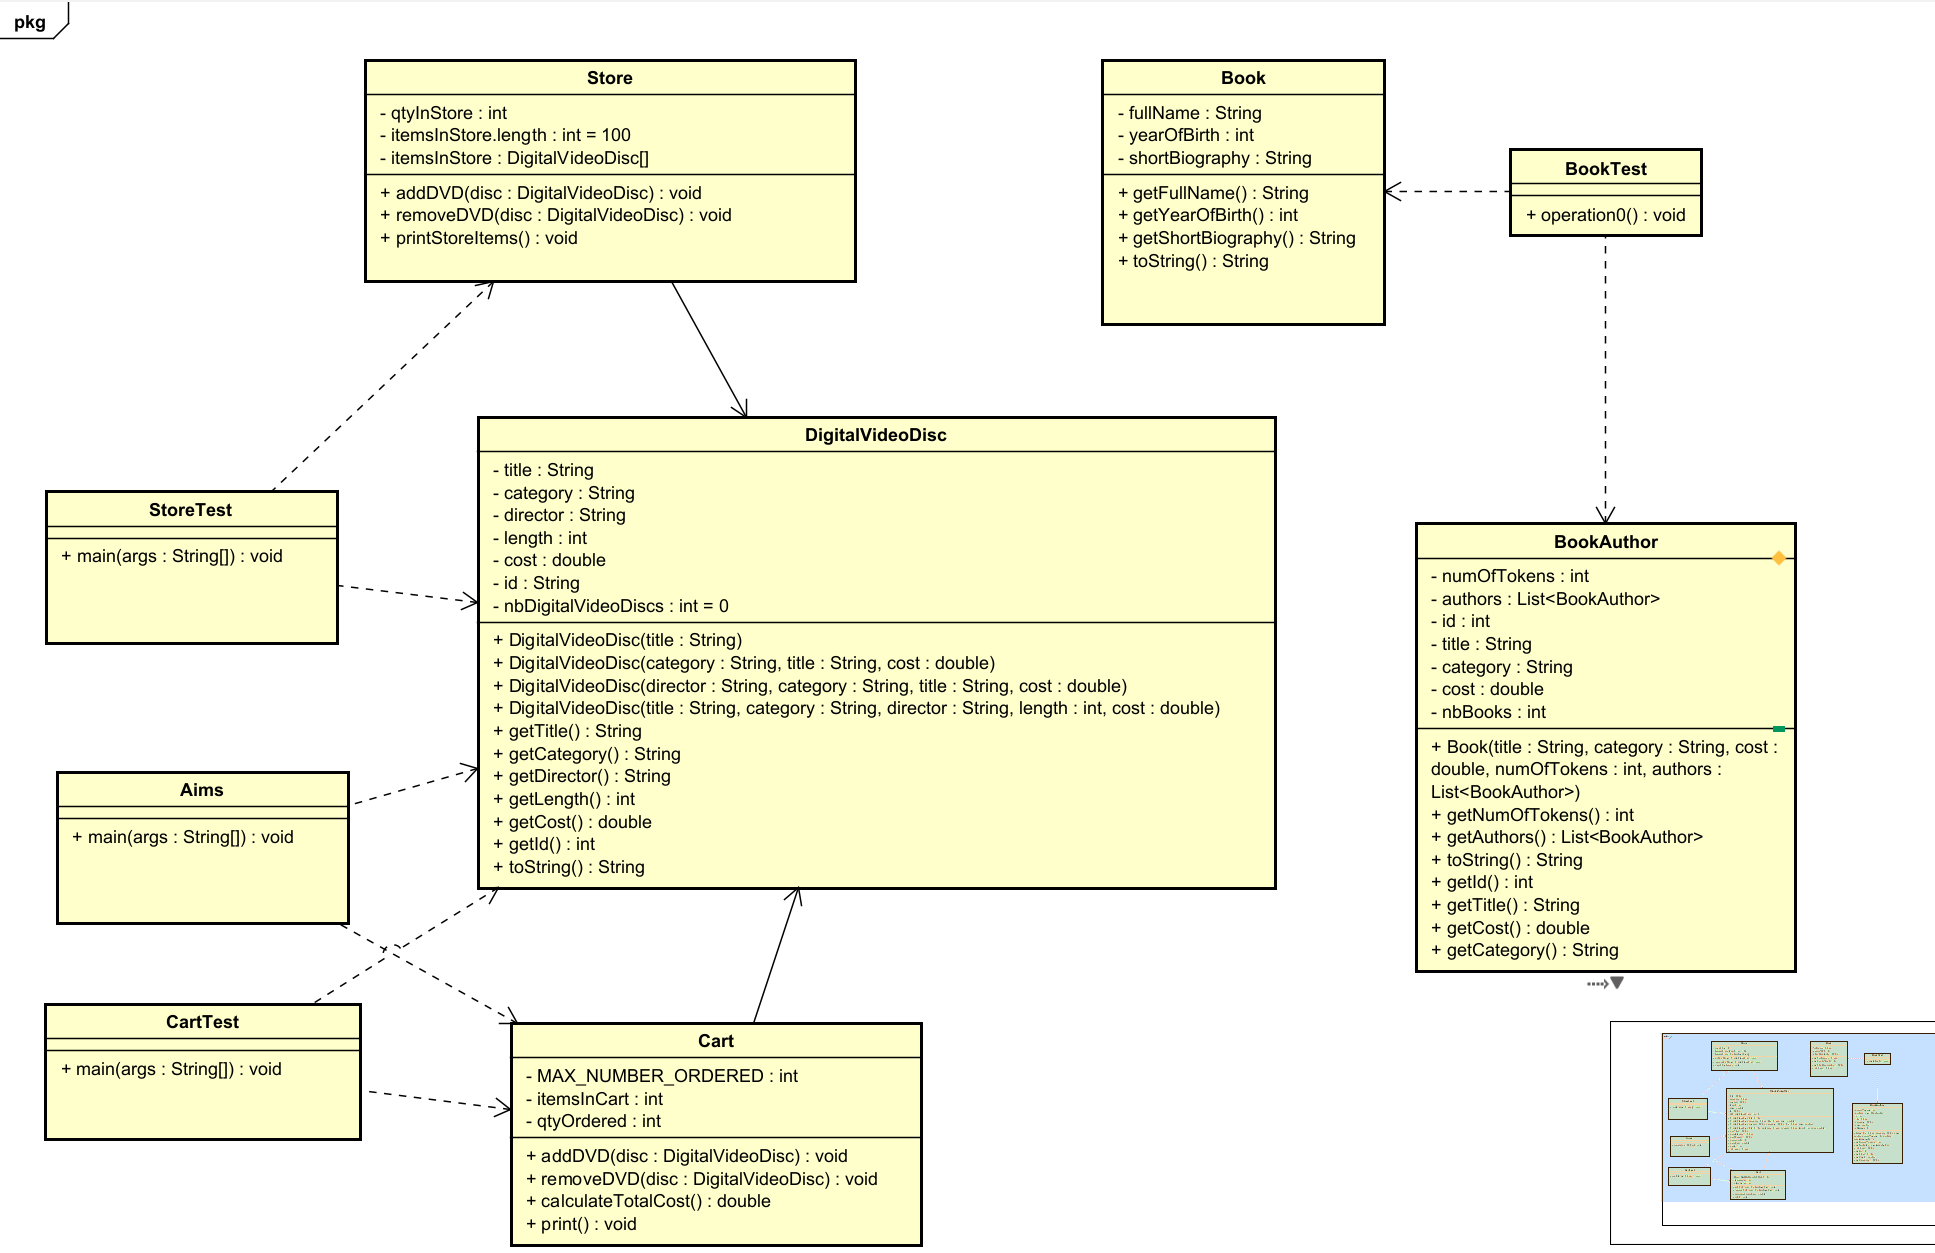
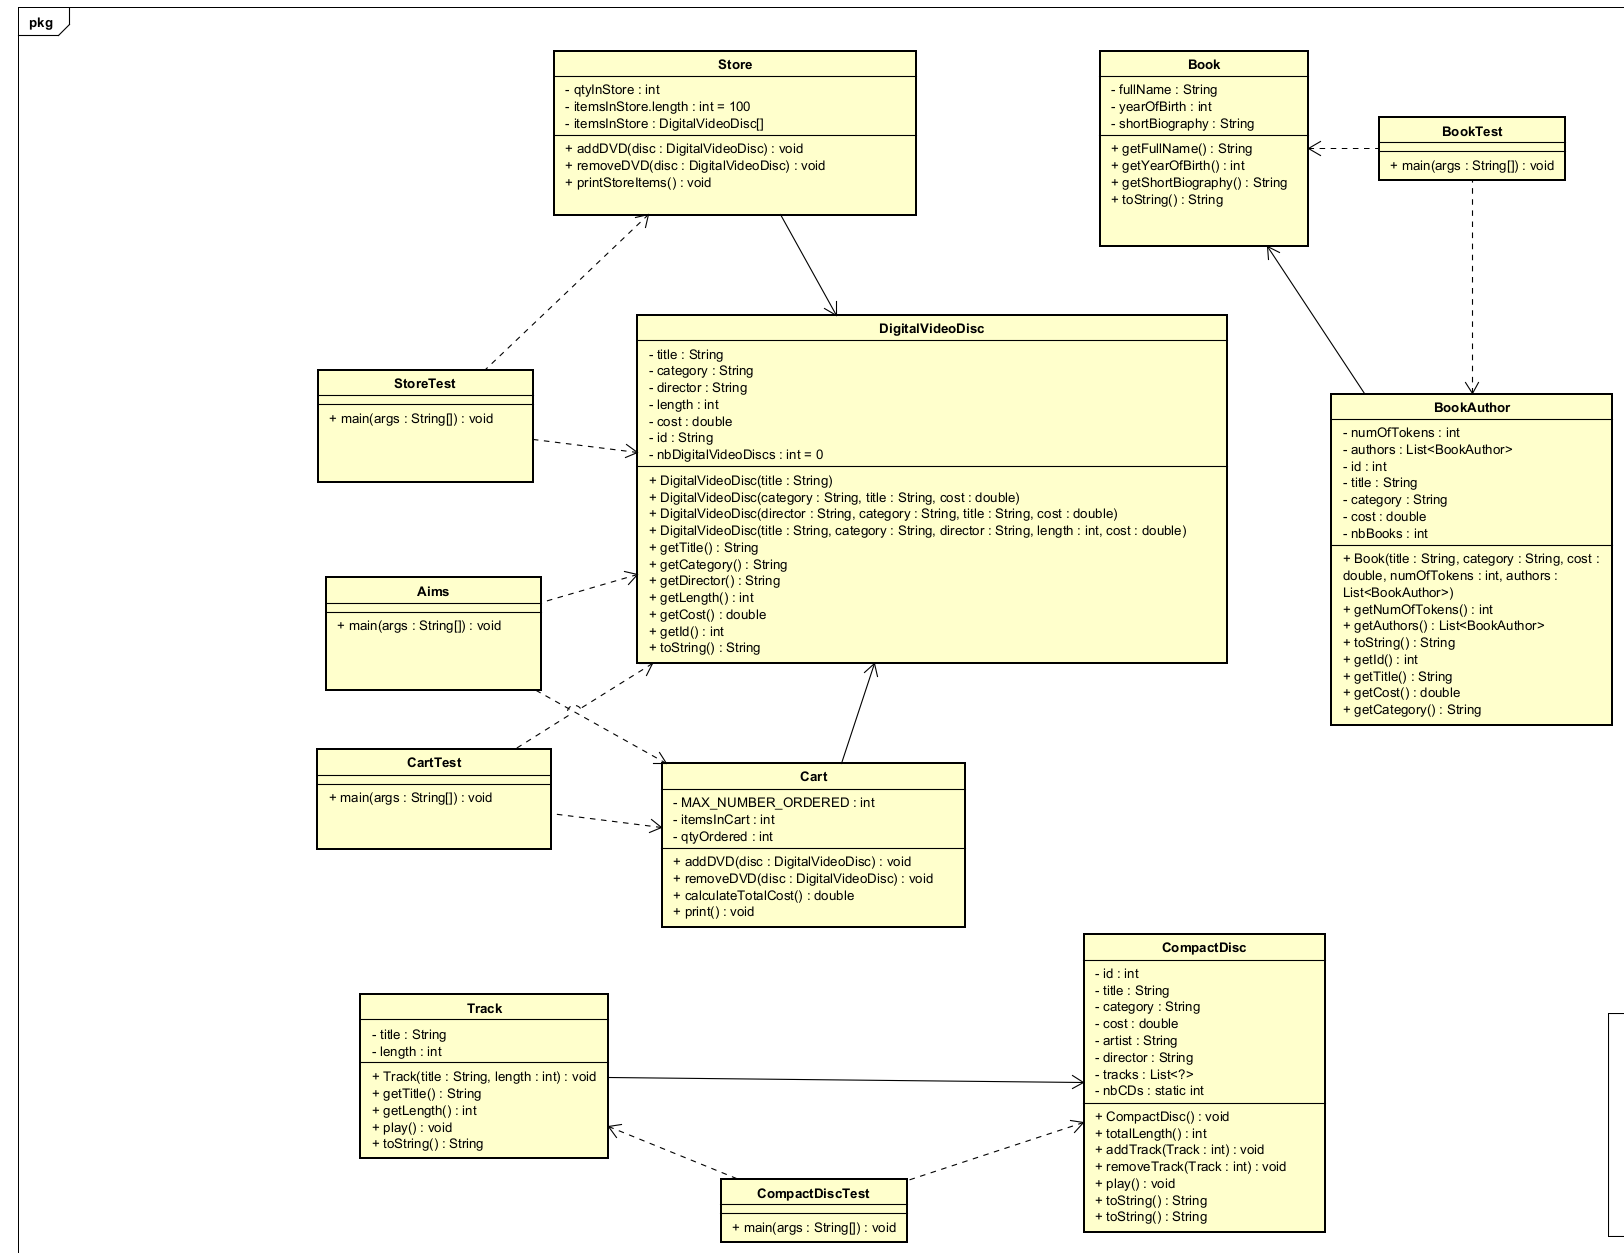
add-compactdisc-class

diff --git a/AimsProject/src/com/hust/kstn/models/CompactDisc.java b/AimsProject/src/com/hust/kstn/models/CompactDisc.java
@@ -1,0 +1,85 @@
+package com.hust.kstn.models;
+
+import java.util.ArrayList;
+import java.util.List;
+
+public class CompactDisc {
+    private String artist;
+    private String director;
+    private List<Track> tracks = new ArrayList<>(); 
+    private int id;
+    private String title;
+    private String category;
+    private double cost;
+    private static int nbCDs = 0; 
+    
+    public CompactDisc(String title, String category, double cost, String artist, String director, List<Track> initialTracks) {
+        this.id = ++nbCDs;
+        this.title = title;
+        this.category = category;
+        this.cost = cost;
+        this.artist = artist;
+        this.director = director;
+        if (initialTracks != null) {
+            this.tracks = initialTracks;
+        }
+    }
+
+    public String getArtist() { return artist; }
+    public String getDirector() { return director; }
+    public List<Track> getTracks() { return tracks; }
+    public String getTitle() { return title; }
+    public double getCost() { return cost; }
+    public int getId() { return id; }
+    public String getCategory() { return category; }
+    
+    public int totalLength() {
+        int total = 0;
+        for (Track track : tracks) {
+            total += track.getLength();
+        }
+        return total;
+    }
+    public void addTrack(Track track) {
+        if (tracks.contains(track)) {
+            System.out.println("Error: Track '" + track.getTitle() + "' already exists in the CD.");
+            return;
+        }
+        tracks.add(track);
+        System.out.println("Added track: " + track.getTitle());
+    }
+    public void removeTrack(Track track) {
+        if (tracks.remove(track)) {
+            System.out.println("Removed track: " + track.getTitle());
+        } else {
+            System.out.println("Error: Track '" + track.getTitle() + "' not found in the CD.");
+        }
+    }
+    public void play() { 
+        int length = totalLength();
+        if (length <= 0) {
+            System.out.println("CD '" + this.title + "' cannot be played.");
+            return;
+        }
+
+        System.out.println("=== Playing CD: " + this.title + " ===");
+        System.out.println("Total duration: " + length + " min.");
+
+        for (Track track : tracks) {
+            track.play();
+        }
+        System.out.println("=== End of CD: " + this.title + " ===");
+    }
+
+    @Override
+    public String toString() {
+        return "CompactDisc [" + this.id + "]["
+             + this.title + "] ["
+             + this.cost + " $]["
+             + this.category + "]"
+             + "\n  Artist: " + this.artist
+             + "\n  Director: " + this.director
+             + "\n  Total Length: " + totalLength() + " min"
+             + "\n  Tracks: " + this.tracks;
+    }
+}

diff --git a/AimsProject/src/com/hust/kstn/test/CompactDiscTest.java b/AimsProject/src/com/hust/kstn/test/CompactDiscTest.java
@@ -1,0 +1,36 @@
+package com.hust.kstn.test;
+
+import com.hust.kstn.models.CompactDisc;
+import com.hust.kstn.models.Track;
+import java.util.ArrayList;
+import java.util.List;
+
+public class CompactDiscTest {
+
+    public static void main(String[] args) {
+        Track track1 = new Track("Track A: Happy Day", 5);
+        Track track2 = new Track("Track B: Sad Evening", 8);
+        Track track3 = new Track("Track C: Zero Length", 0); 
+        
+        List<Track> initialTracks = new ArrayList<>();
+        initialTracks.add(track1);
+        initialTracks.add(track2);
+        CompactDisc cd1 = new CompactDisc("Best of Pop", "Pop", 35.99, "Various Artists", "John Doe", initialTracks);
+        System.out.println("1. Testing CD Details and totalLength():");
+        System.out.println(cd1.toString()); 
+        System.out.println("Calculated Total Length: " + cd1.totalLength());
+
+        System.out.println("\n2. Testing addTrack and removeTrack:");
+        cd1.addTrack(track3);
+        cd1.removeTrack(track1); 
+        System.out.println("CD Status after modifications:");
+        System.out.println(cd1.toString());
+
+        System.out.println("\n3. Testing play() method:");
+        cd1.play();
+
+        System.out.println("\n4. Testing Empty CD Play:");
+        CompactDisc cd2 = new CompactDisc("Empty Album", "Ambient", 10.00, "None", "Unknown", null);
+        cd2.play();
+    }
+}

diff --git a/AimsProject/src/com/hust/kstn/models/Track.java b/AimsProject/src/com/hust/kstn/models/Track.java
@@ -1,0 +1,26 @@
+package com.hust.kstn.models;
+
+public class Track {
+    private String title;
+    private int length;
+    public Track(String title, int length) {
+        this.title = title;
+        this.length = length;
+    }
+
+    public String getTitle() { return title; }
+    public int getLength() { return length; }
+
+    public void play() {
+        if (this.length > 0) {
+            System.out.println("Playing track: " + this.title + ". Duration: " + this.length + " min.");
+        } else {
+            System.out.println("Track '" + this.title + "' cannot be played.");
+        }
+    }
+
+    @Override
+    public String toString() {
+        return "Track [" + this.title + "] - [" + this.length + " min]";
+    }
+}
